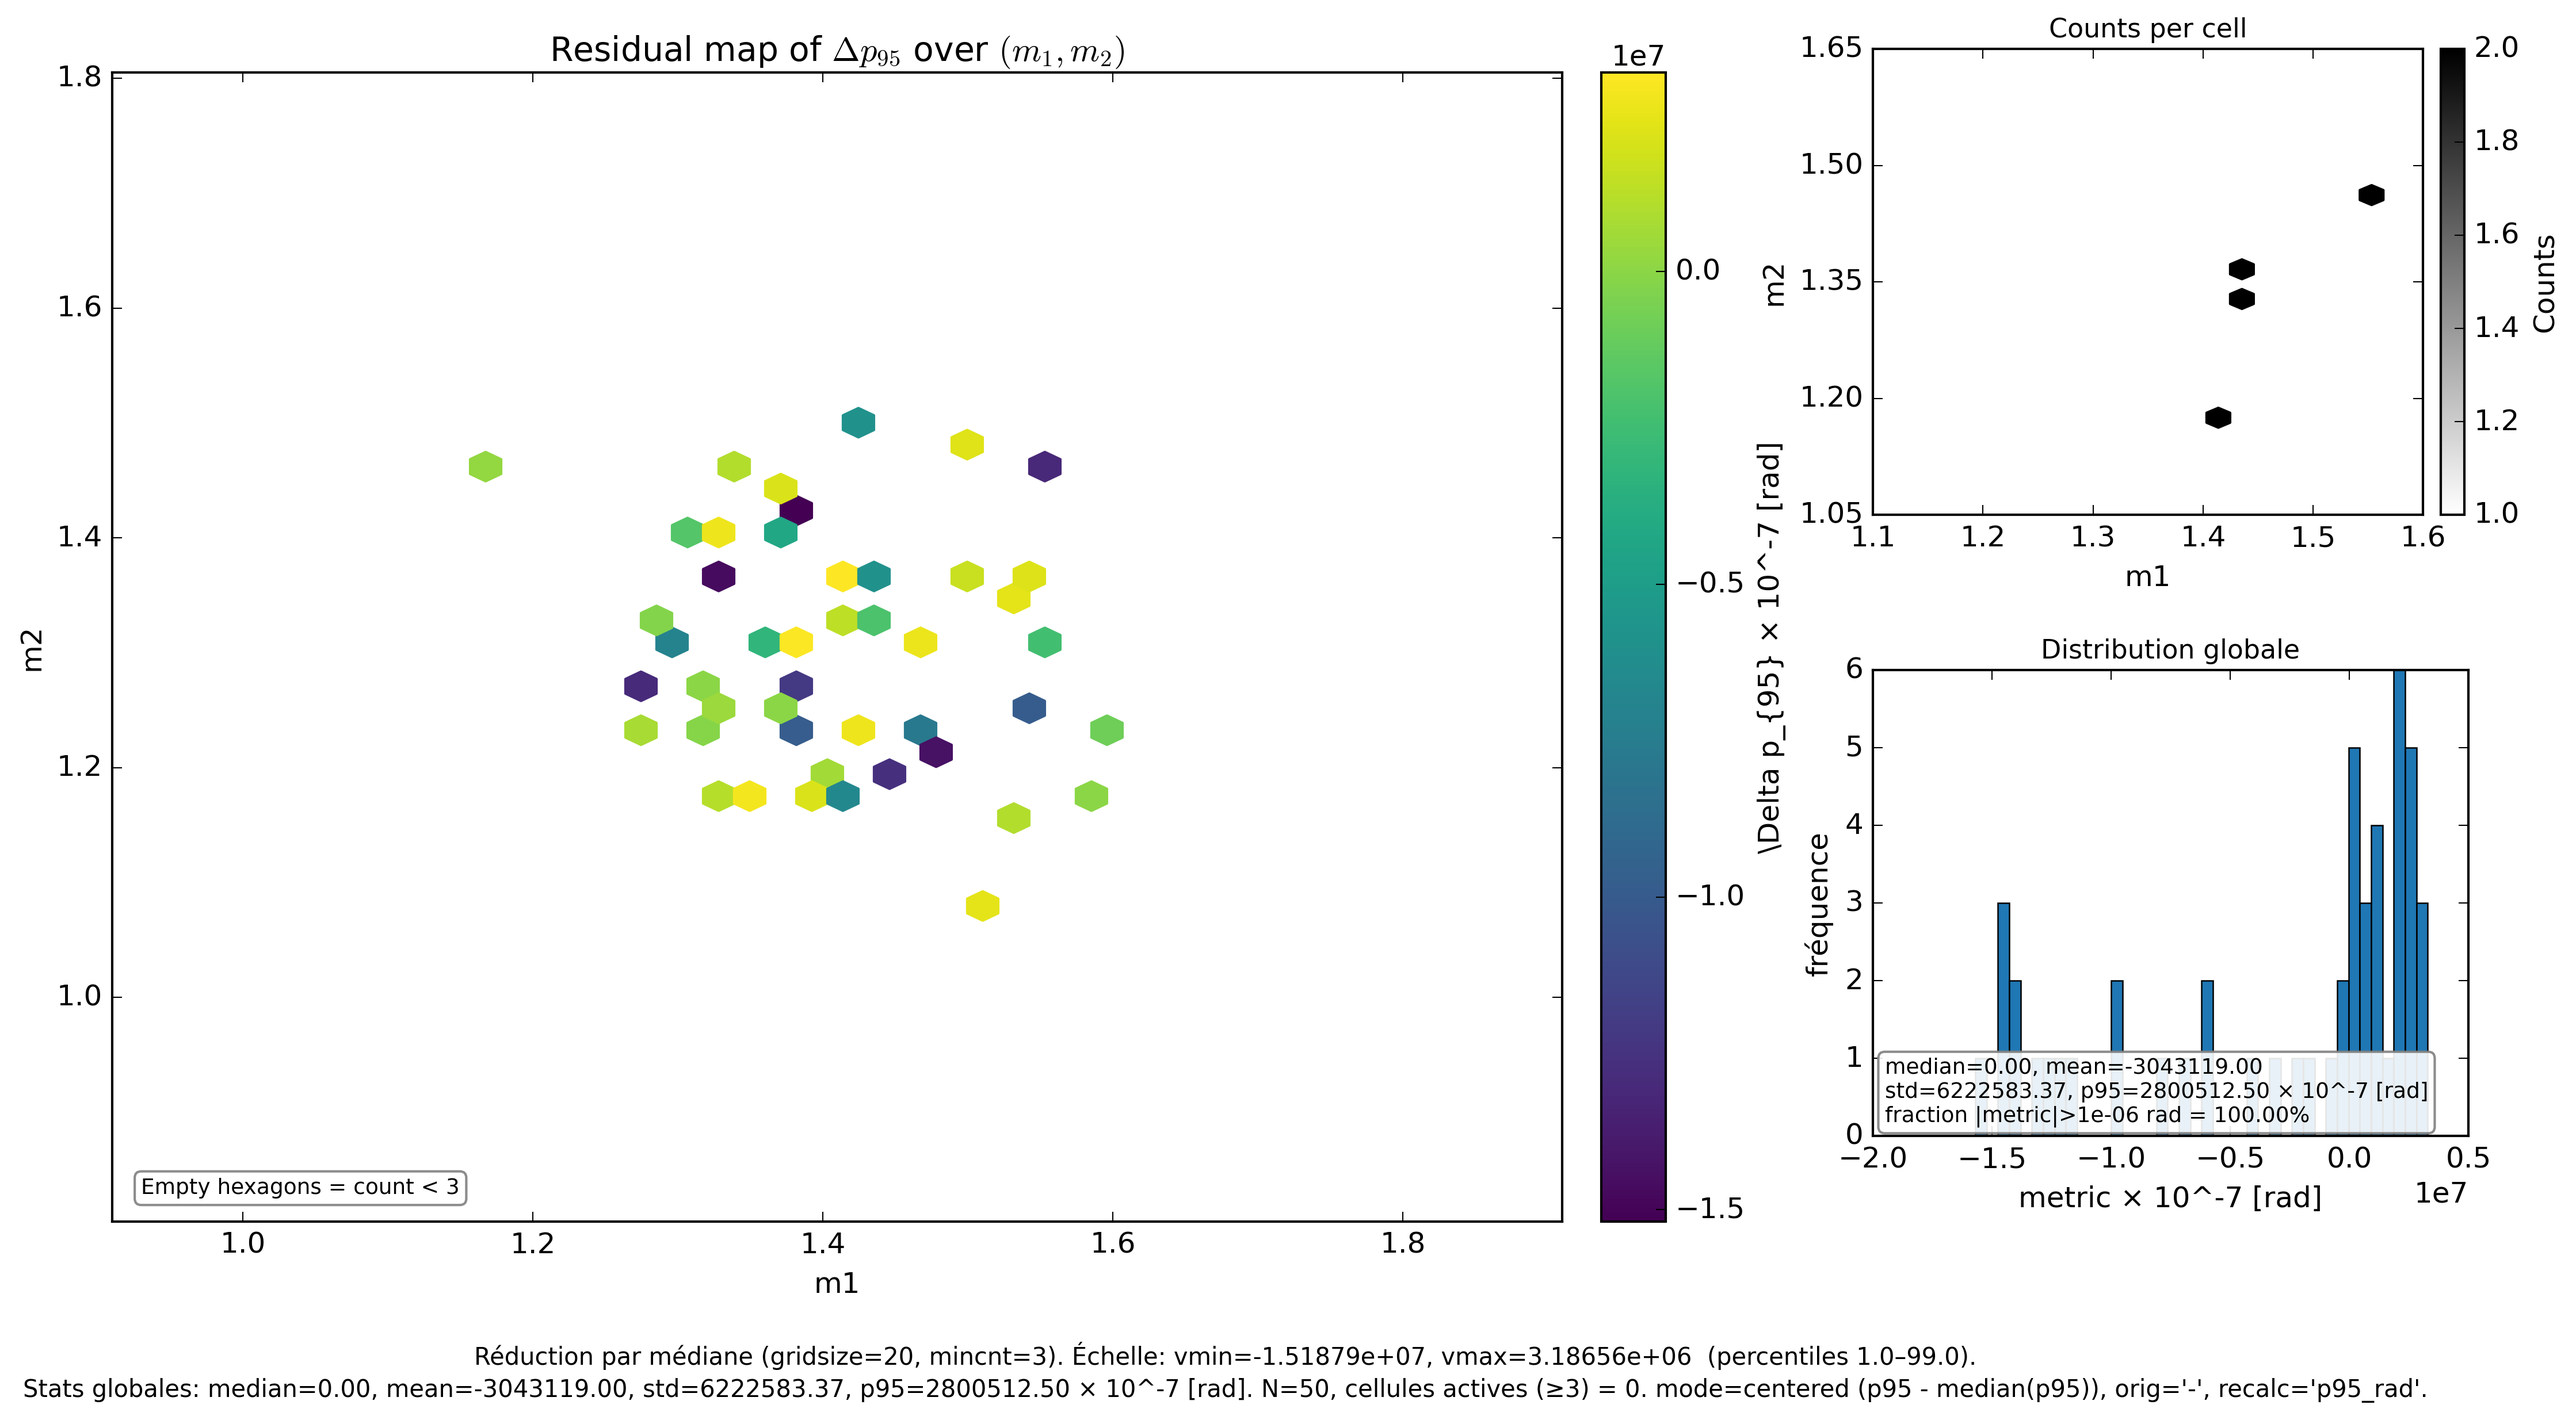
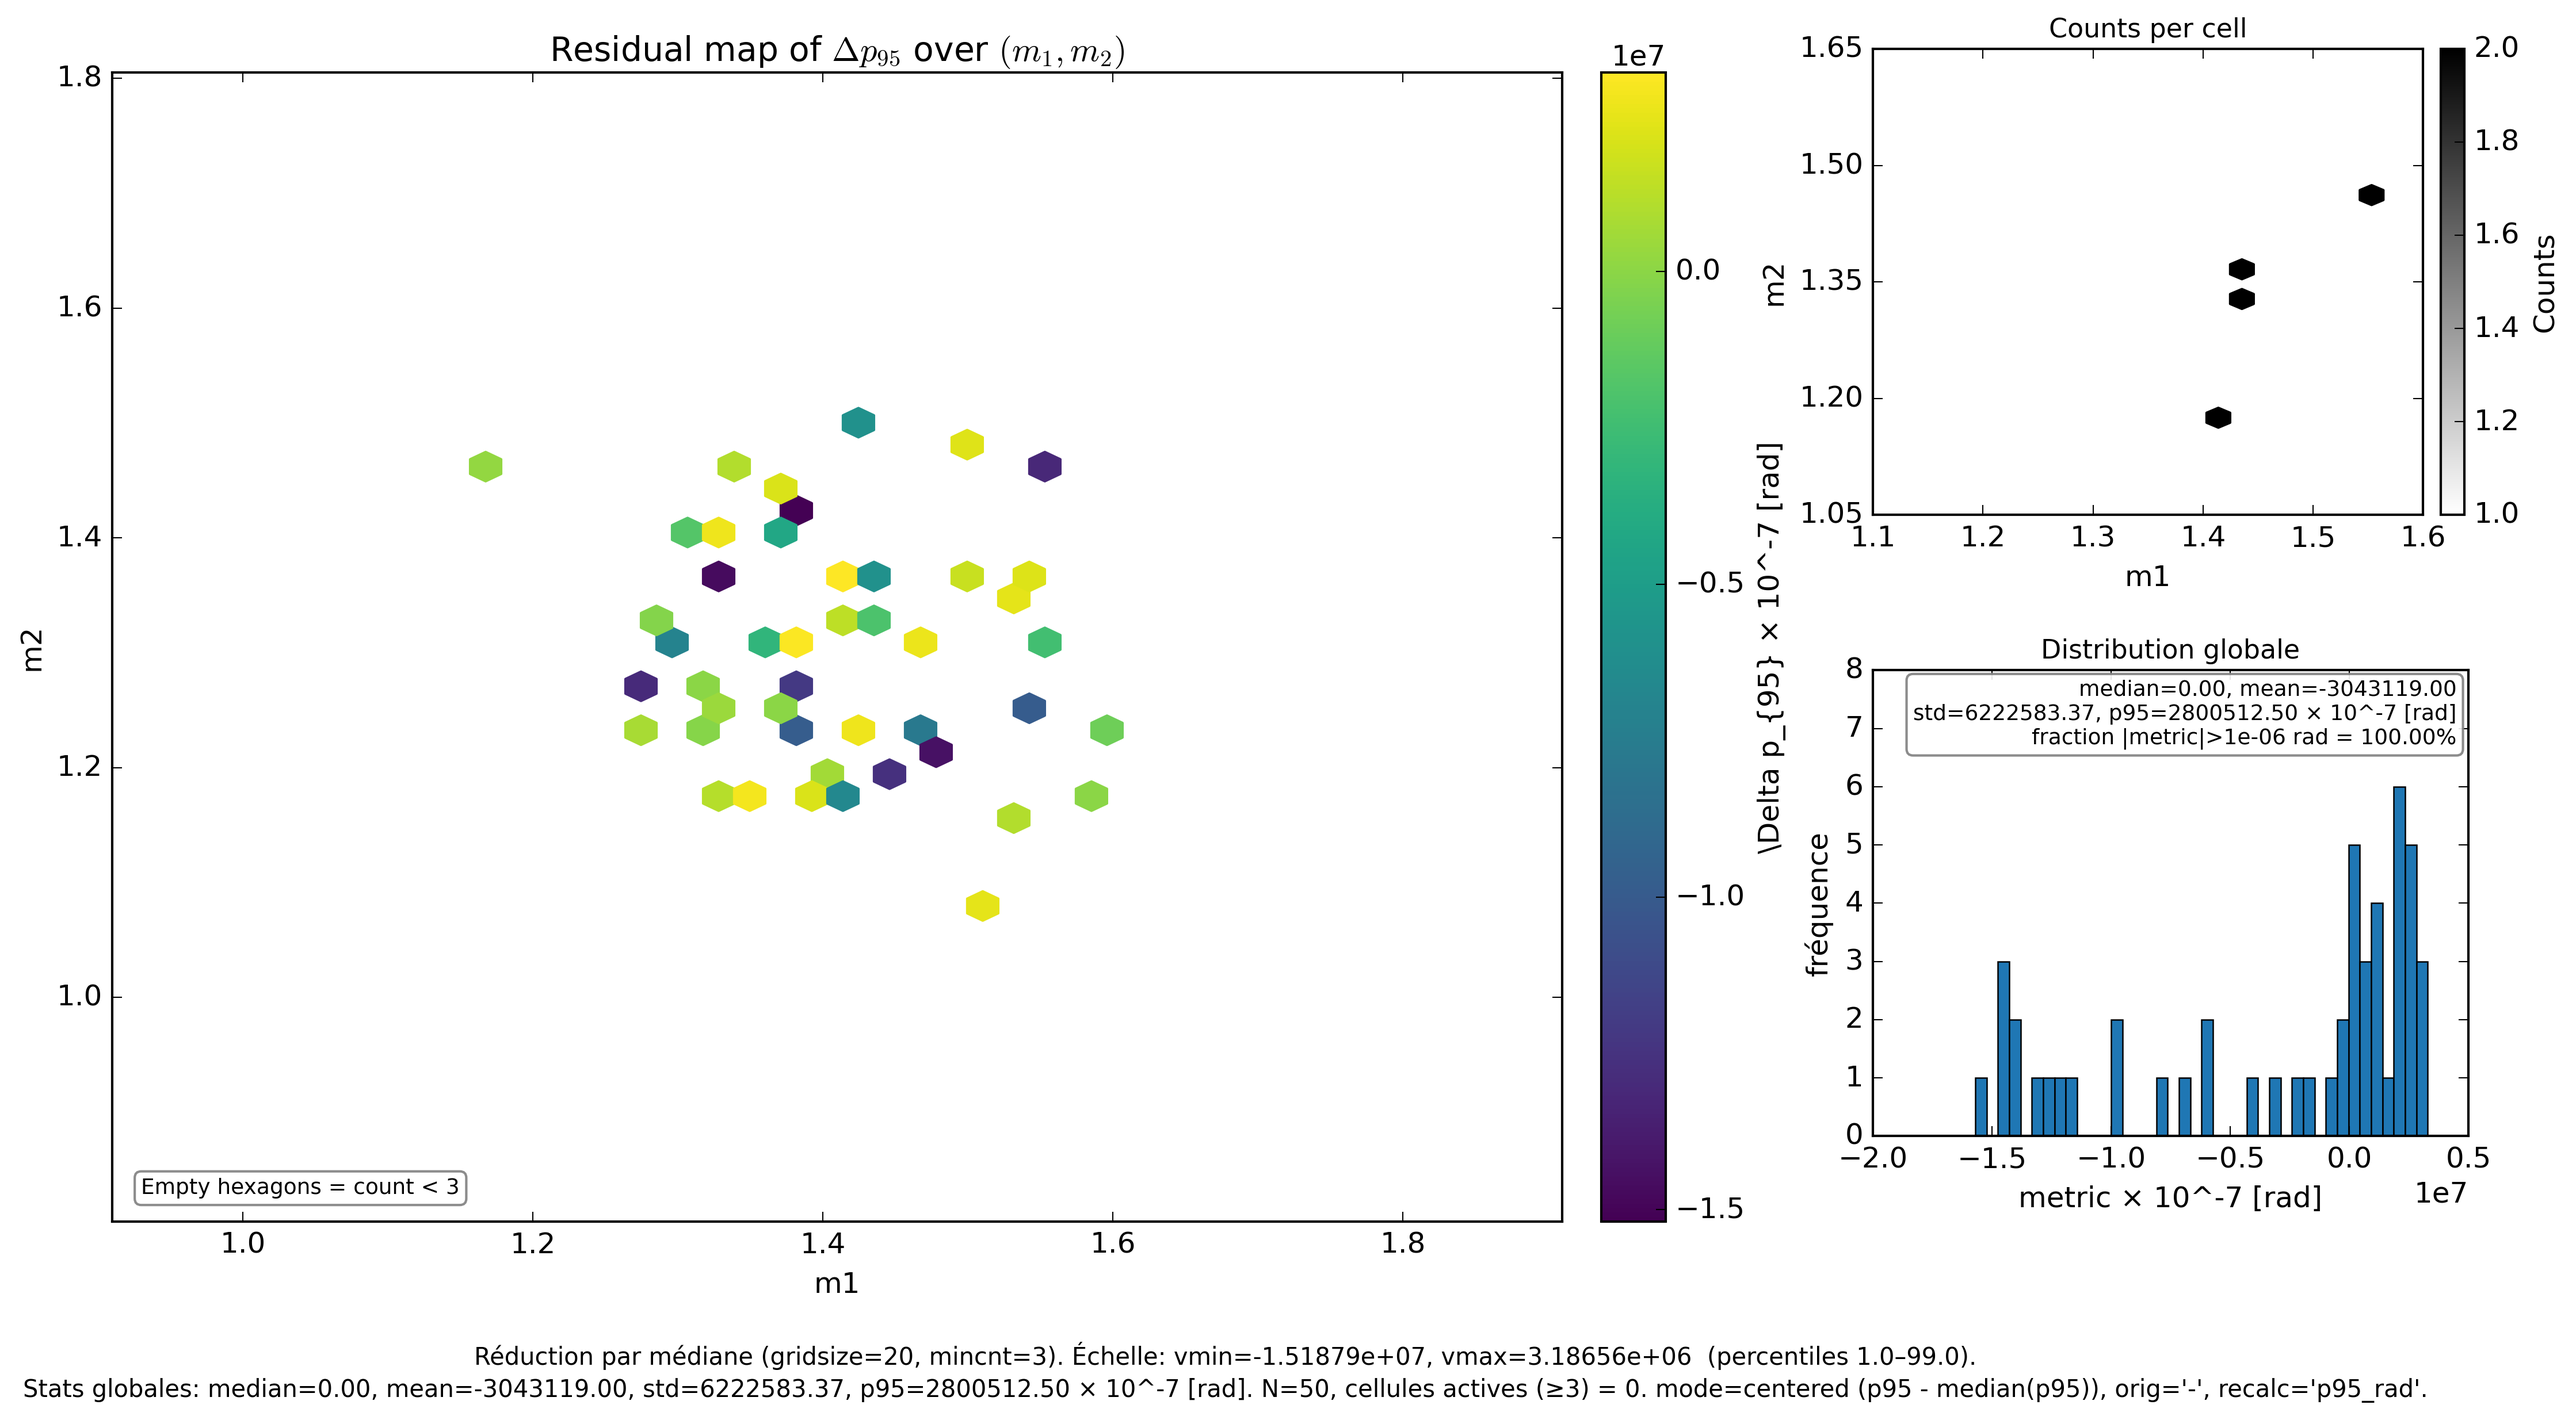
viz(ch10): final legend fix for fig03 and histogram adjustment for fig06

Changed region(s): [[0.7141, 0.4678, 0.9625, 0.8109], [0.7141, 0.499, 0.7451, 0.5302]]

diff --git a/zz-scripts/chapter10/10_fig_06_residual_map.py b/zz-scripts/chapter10/10_fig_06_residual_map.py
@@ -512,15 +512,16 @@ def main() -> None:
         rf"fraction |metric|>{args.threshold:.0e} rad = {100 * frac_over:.2f}%",
     ]
     ax_hist.text(
-        0.02,
-        0.02,
+        0.98,
+        0.98,
         "\n".join(stats_lines),
         transform=ax_hist.transAxes,
-        ha="left",
-        va="bottom",
+        ha="right",
+        va="top",
         fontsize=9,
         bbox=dict(boxstyle="round", fc="white", ec="0.5", alpha=0.9),
     )
+    ax_hist.set_ylim(0, 8.0)
 
     # ------------------------------- footers --------------------------------
     foot_scale = (
